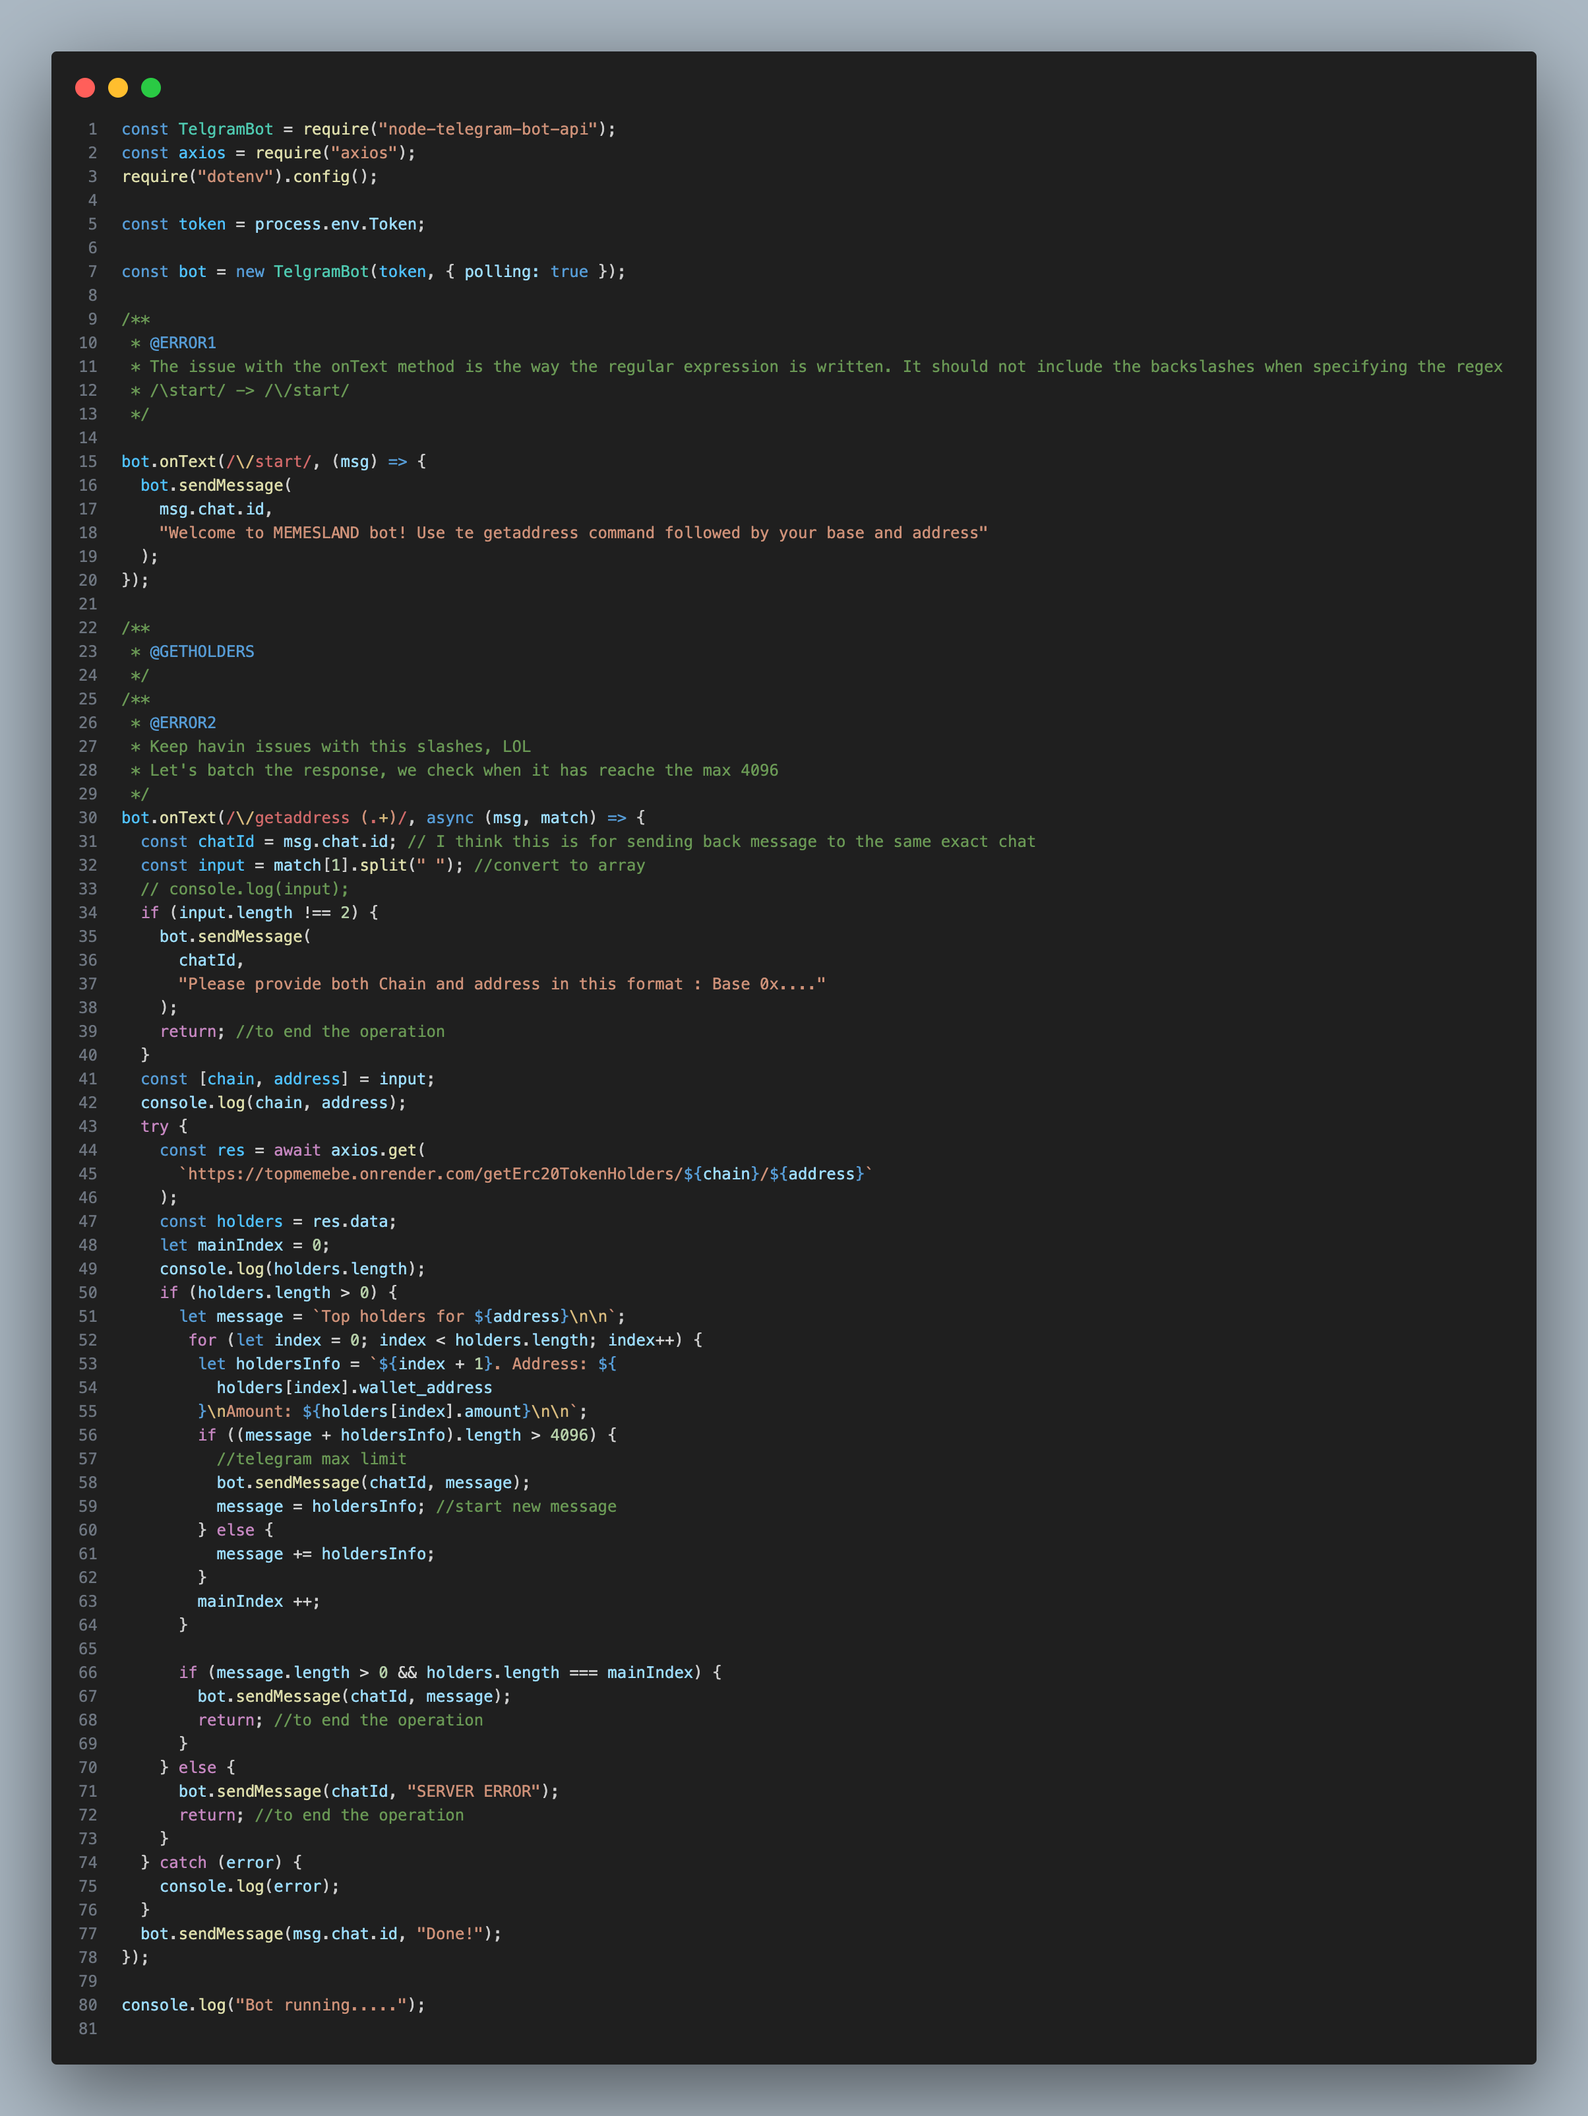
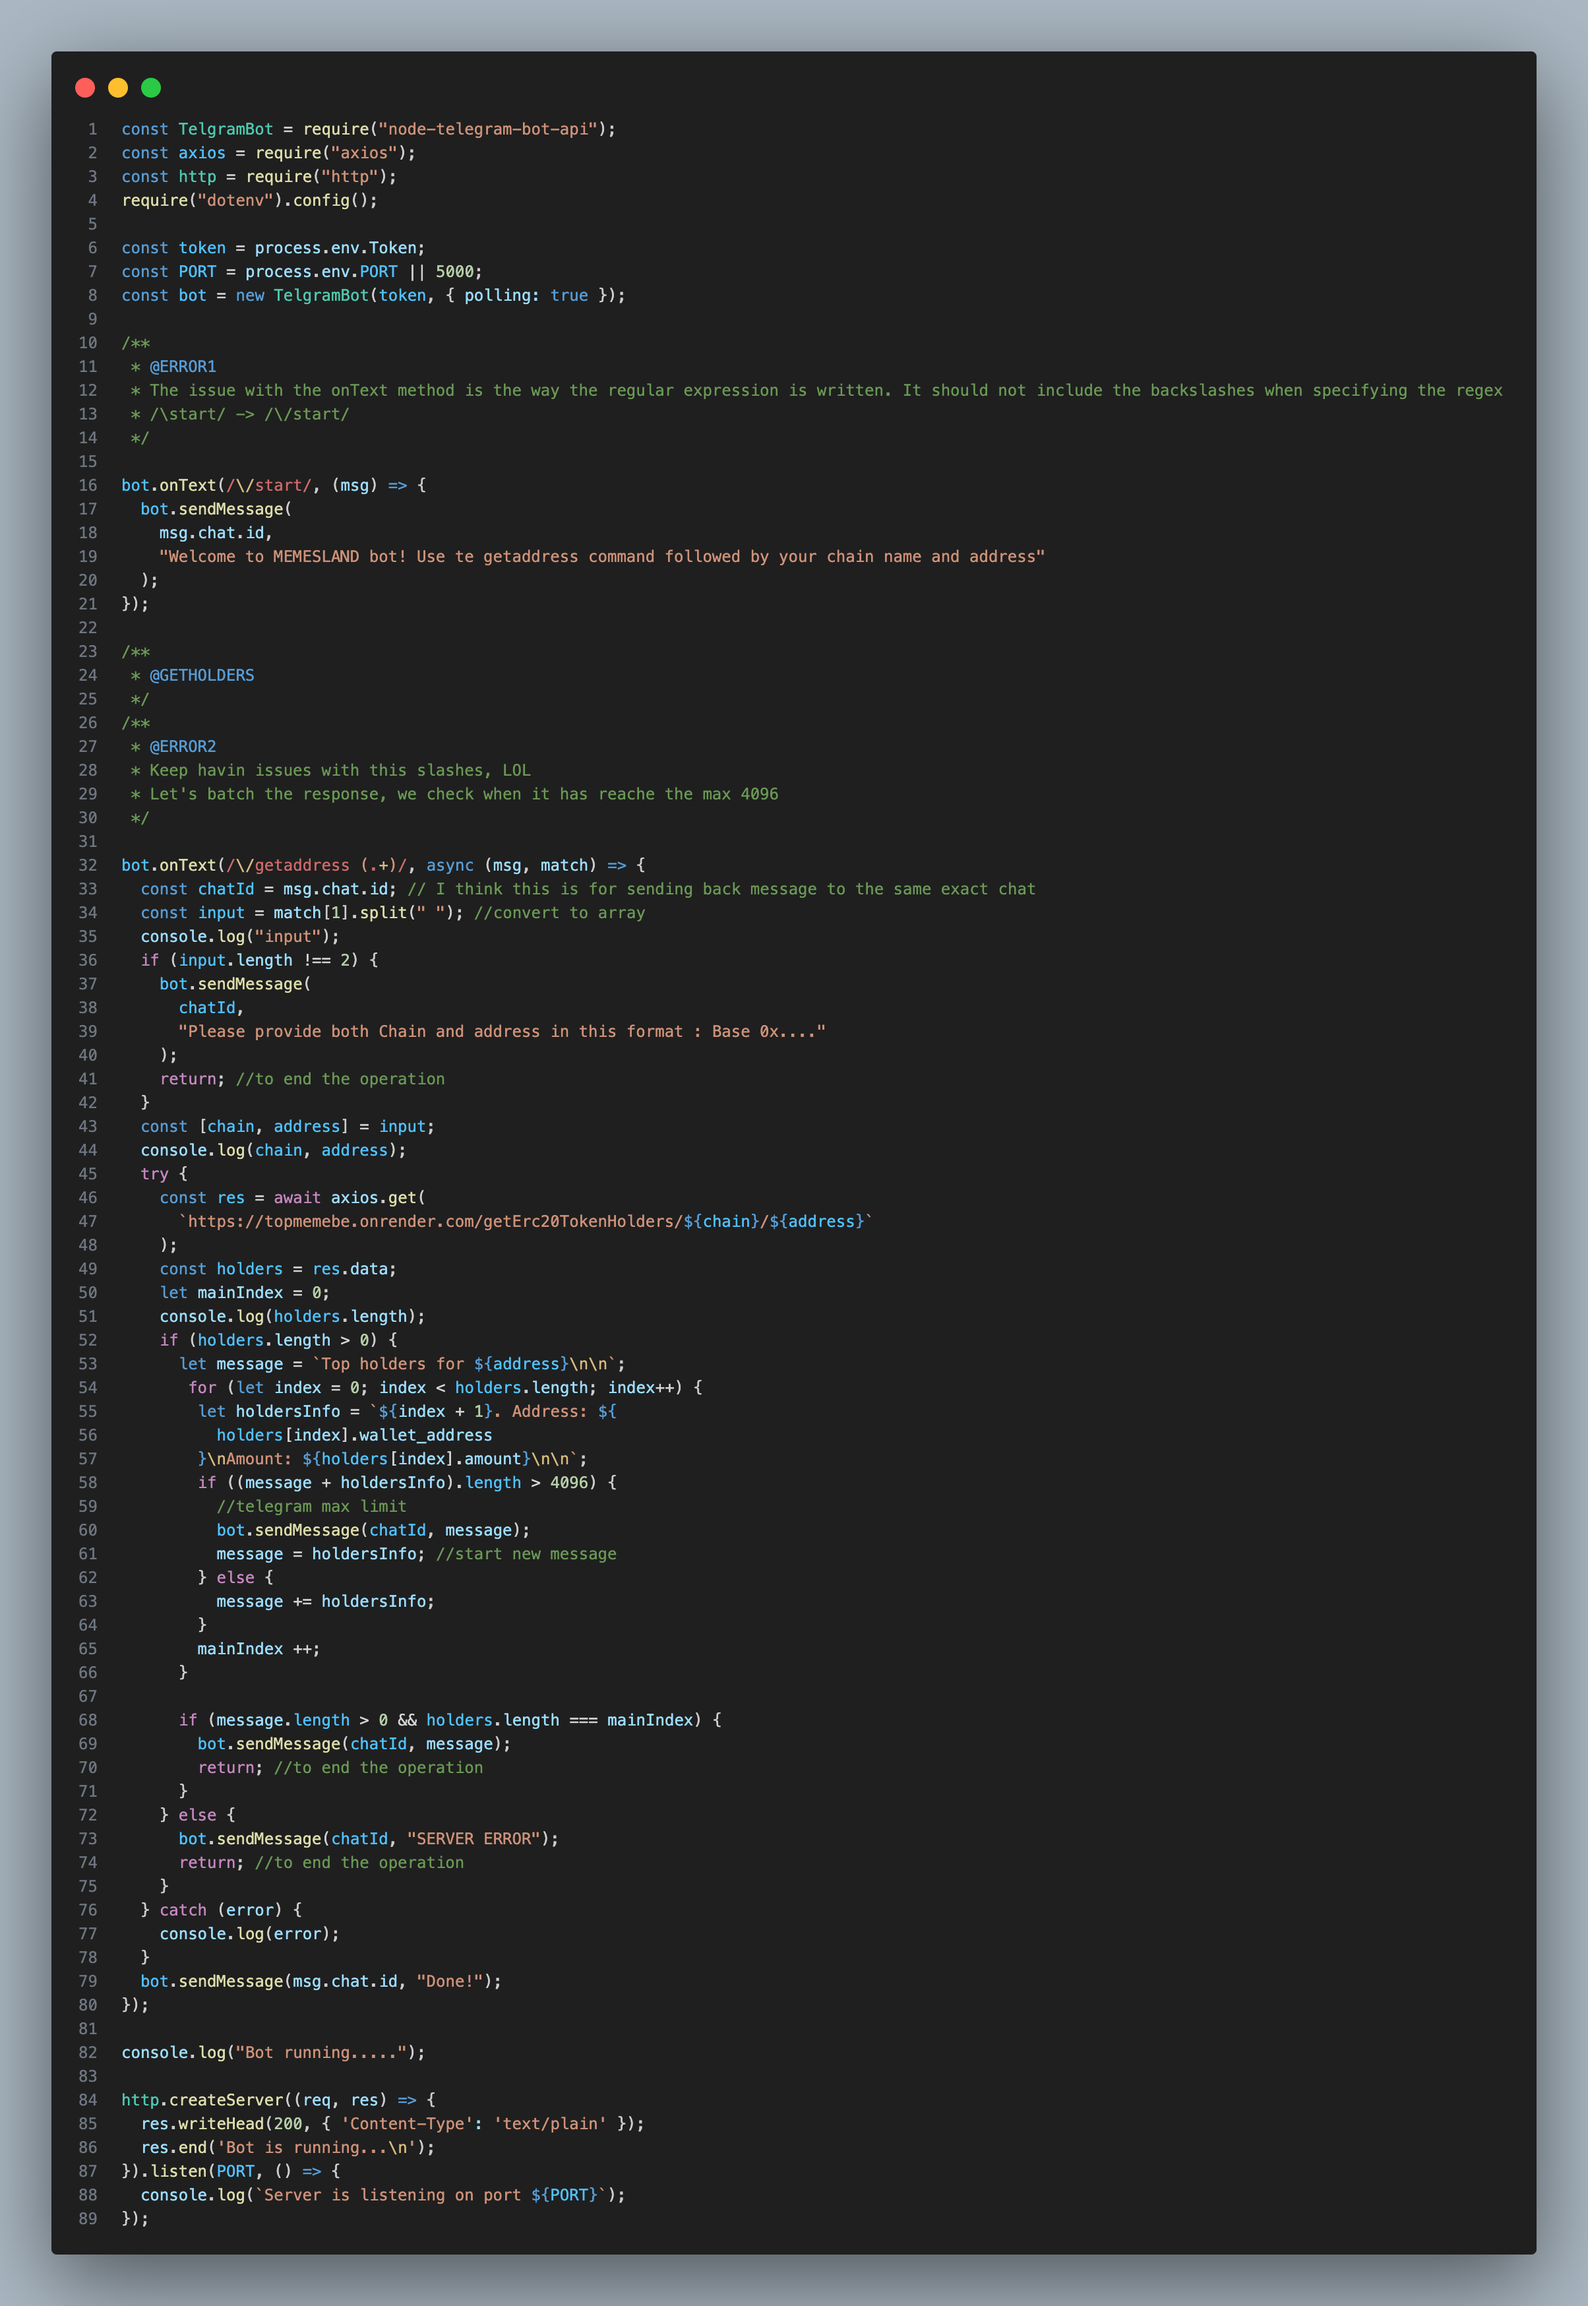
worked on the new modification on tgbot

diff --git a/src/components/pages/100Projects/TgBot.jsx b/src/components/pages/100Projects/TgBot.jsx
@@ -6,6 +6,7 @@ import tg2 from "../../../assets/images/bots/tg2.png";
 import tg from "../../../assets/images/bots/tg3.png";
 import tg3 from "../../../assets/images/bots/tg.png";
 import tg1 from "../../../assets/images/bots/tg1.png";
+import tg4 from "../../../assets/images/bots/tg4.png";
 import { useNavigate } from "react-router-dom";
 import { FaBackspace } from "react-icons/fa";
 
@@ -92,6 +93,9 @@ function TgBot() {
               of 4096 characters by batching the responses.
             </li>
             <img src={tg3} className="sub" alt="" />
+            <h2>Setting Up Server</h2>
+            <li>We also set up a simple HTTP server that listens on the specified port, confirming that the bot is running. Most hosting platforms would fail without setting up one.</li>
+            <img src={tg4} className="sub" alt="" />
             <h2>Running the Bot</h2>
             <li>
               After setting up the environment and starting the bot, you can
